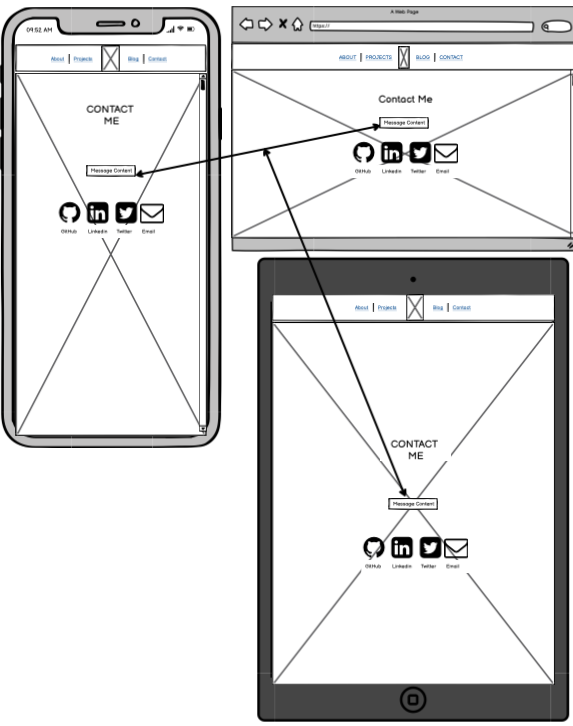
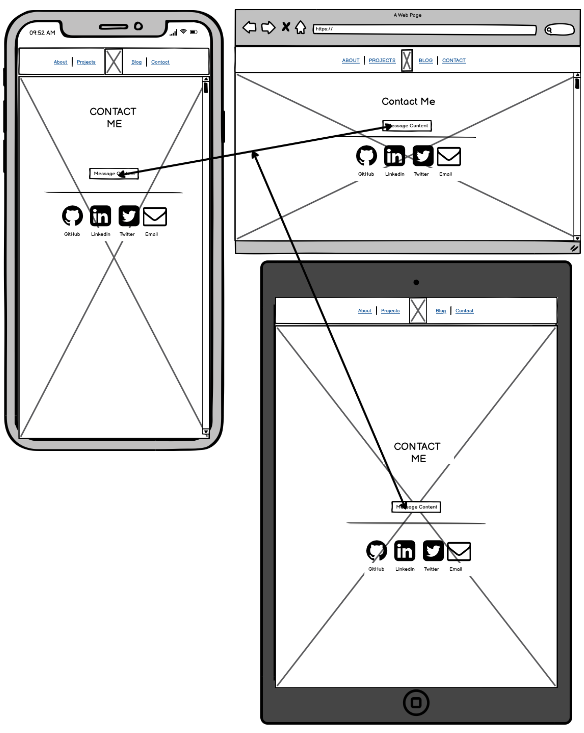
fixed screenshot of revision to include light bar and edited content to reflect so in README.md

diff --git a/README.md b/README.md
@@ -172,7 +172,7 @@ Target audiences for this portfolio are recruiters and prospective employers in 
 
 **Revision**
 
-Revised Contact Page to add message above Social Links.
+Revised Contact Page to add message above Social Links and also a light bar.
 
 ![Contact Me Page Revision](./docs/Wireframe-contact-revision.png)
 
